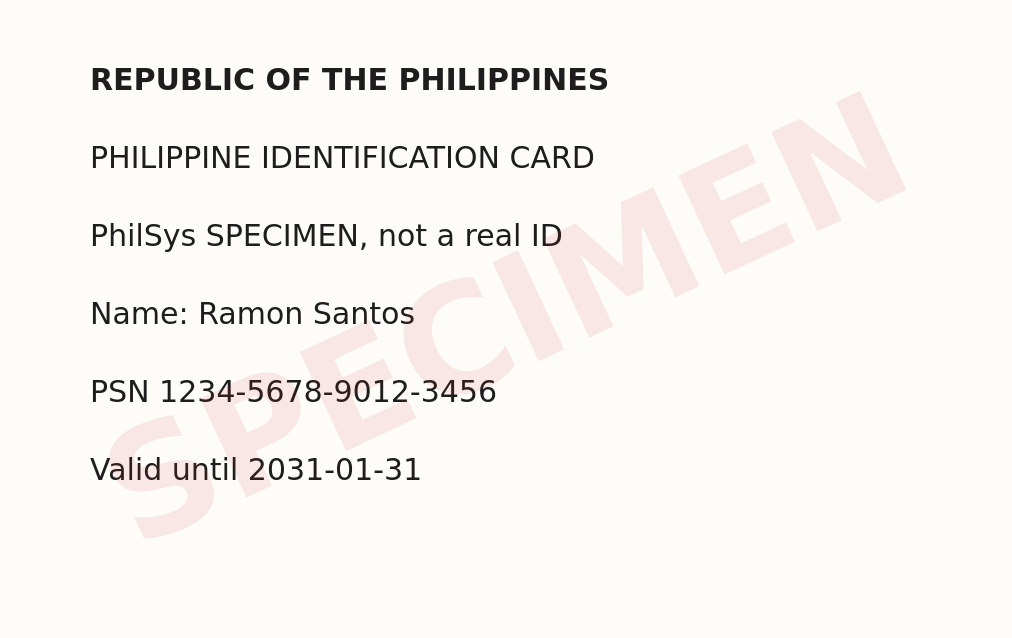
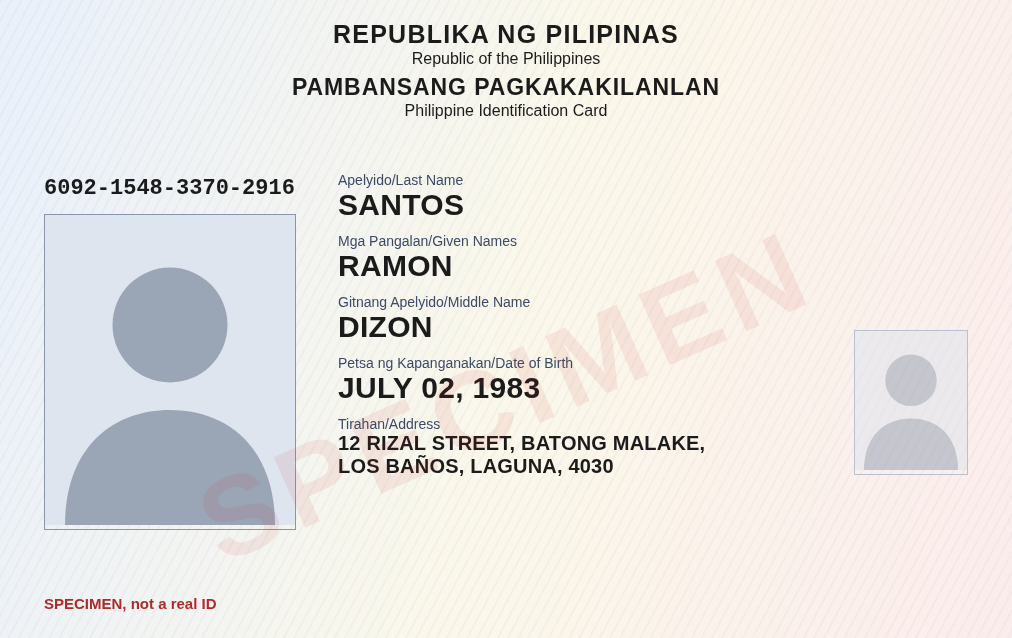
feat: use the true-to-life sample papers on the live page
The plain pages move to frontend/specimens/plain/ and stay in use for the
browser reader, whose OCR misreads the new layouts.

Claude-Session: https://claude.ai/code/session_012gYjLzevutt6LGoxqEzaJx

Changed region(s): [[0.0, 0.0, 0.7964, 0.8934], [0.8271, 0.5361, 0.9496, 0.7445], [0.0306, 0.9232, 0.2144, 0.953]]

diff --git a/frontend/live.js b/frontend/live.js
@@ -333,13 +333,13 @@ if (role === 'bm') {
   let queue = Promise.resolve(); // one batch of photos at a time
   const add = (files, clear) => (queue = queue.then(() => { if (clear) clearPages(); return addFiles(files); }));
   $('files').onchange = (e) => { add([...e.target.files]); e.target.value = ''; };
-  // the synthetic specimens, as the branch would photograph them on each visit
+  // the synthetic specimens, as the branch would photograph them on each visit. The browser reader gets the plain pages.
   const PAPERS = ['02-owner-id-front', '03-owner-id-back', '04-spouse-id-front', '05-dti-page-1', '08-bank-statement', '09-bir-cor', '10-mayors-permit', '11-client-authorization-letter'];
   const SAMPLES = { 1: ['01-application-form-first-visit', ...PAPERS], 2: ['01b-application-form-corrected', ...PAPERS, '05b-dti-page-2'] };
   for (const v of [1, 2]) $(`sample-${v}`).onclick = async () => {
     const done = busy($(`sample-${v}`), 'Loading papers');
     try {
-      const files = await Promise.all(SAMPLES[v].map(async (f) => new File([await (await fetch(`specimens/${f}.png`)).blob()], `${f}.png`, { type: 'image/png' })));
+      const files = await Promise.all(SAMPLES[v].map(async (f) => new File([await (await fetch(`specimens/${stack === 'free' ? 'plain/' : ''}${f}.png`)).blob()], `${f}.png`, { type: 'image/png' })));
       done(); add(files, true);
     } catch { done(); alertInline('The sample papers could not load. Check the connection and try again.'); }
   };

diff --git a/frontend/preview.js b/frontend/preview.js
@@ -333,13 +333,13 @@ if (role === 'bm') {
   let queue = Promise.resolve(); // one batch of photos at a time
   const add = (files, clear) => (queue = queue.then(() => { if (clear) clearPages(); return addFiles(files); }));
   $('files').onchange = (e) => { add([...e.target.files]); e.target.value = ''; };
-  // the synthetic specimens, as the branch would photograph them on each visit
+  // the synthetic specimens, as the branch would photograph them on each visit. The browser reader gets the plain pages.
   const PAPERS = ['02-owner-id-front', '03-owner-id-back', '04-spouse-id-front', '05-dti-page-1', '08-bank-statement', '09-bir-cor', '10-mayors-permit', '11-client-authorization-letter'];
   const SAMPLES = { 1: ['01-application-form-first-visit', ...PAPERS], 2: ['01b-application-form-corrected', ...PAPERS, '05b-dti-page-2'] };
   for (const v of [1, 2]) $(`sample-${v}`).onclick = async () => {
     const done = busy($(`sample-${v}`), 'Loading papers');
     try {
-      const files = await Promise.all(SAMPLES[v].map(async (f) => new File([await (await fetch(`specimens/${f}.png`)).blob()], `${f}.png`, { type: 'image/png' })));
+      const files = await Promise.all(SAMPLES[v].map(async (f) => new File([await (await fetch(`specimens/${stack === 'free' ? 'plain/' : ''}${f}.png`)).blob()], `${f}.png`, { type: 'image/png' })));
       done(); add(files, true);
     } catch { done(); alertInline('The sample papers could not load. Check the connection and try again.'); }
   };

diff --git a/README.md b/README.md
@@ -9,7 +9,7 @@ Counter Check helps a BPI branch get a business loan referral complete before it
 - The old address https://counter-check.h-847.workers.dev still works and serves the same Worker.
 - By default photos go to S3 and are read by Amazon Textract and Claude Haiku 5.5 on Amazon Bedrock, and the form fill and the assistant use Claude too. With `?stack=free` the page reads photos in the browser and uses Gemini (the free stack). Old links with `?stack=aws` still work.
 
-No key is needed. The page is rate limited and has a daily cap on model calls. Use only the synthetic documents in `frontend/specimens/`.
+No key is needed. The page is rate limited and has a daily cap on model calls. Use only the synthetic documents in `frontend/specimens/`. `scripts/make-specimens.cjs` draws them in the layout of the real documents, with made-up people, a SPECIMEN mark on every page and no official seal or logo. The older plain pages are in `frontend/specimens/plain/`, and the browser reader (`?stack=free`) uses those.
 
 ## How it works
 
